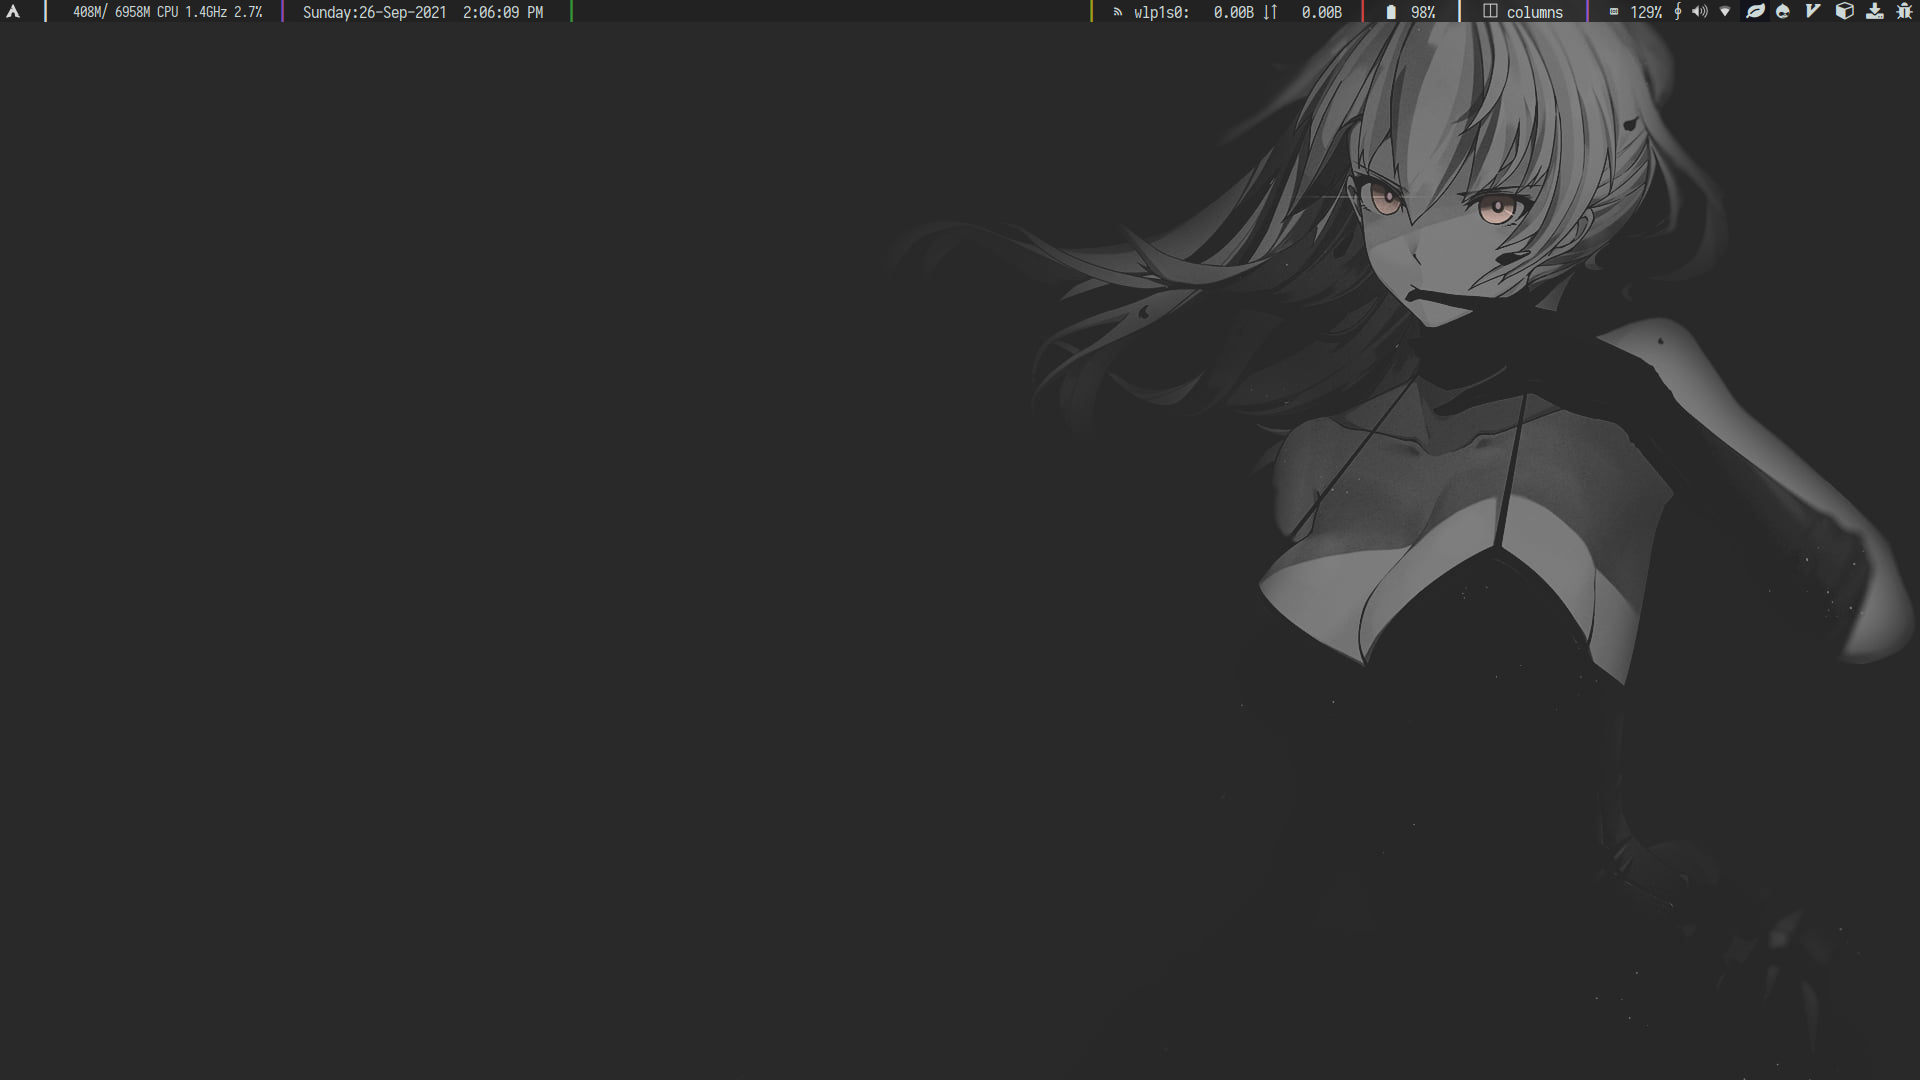
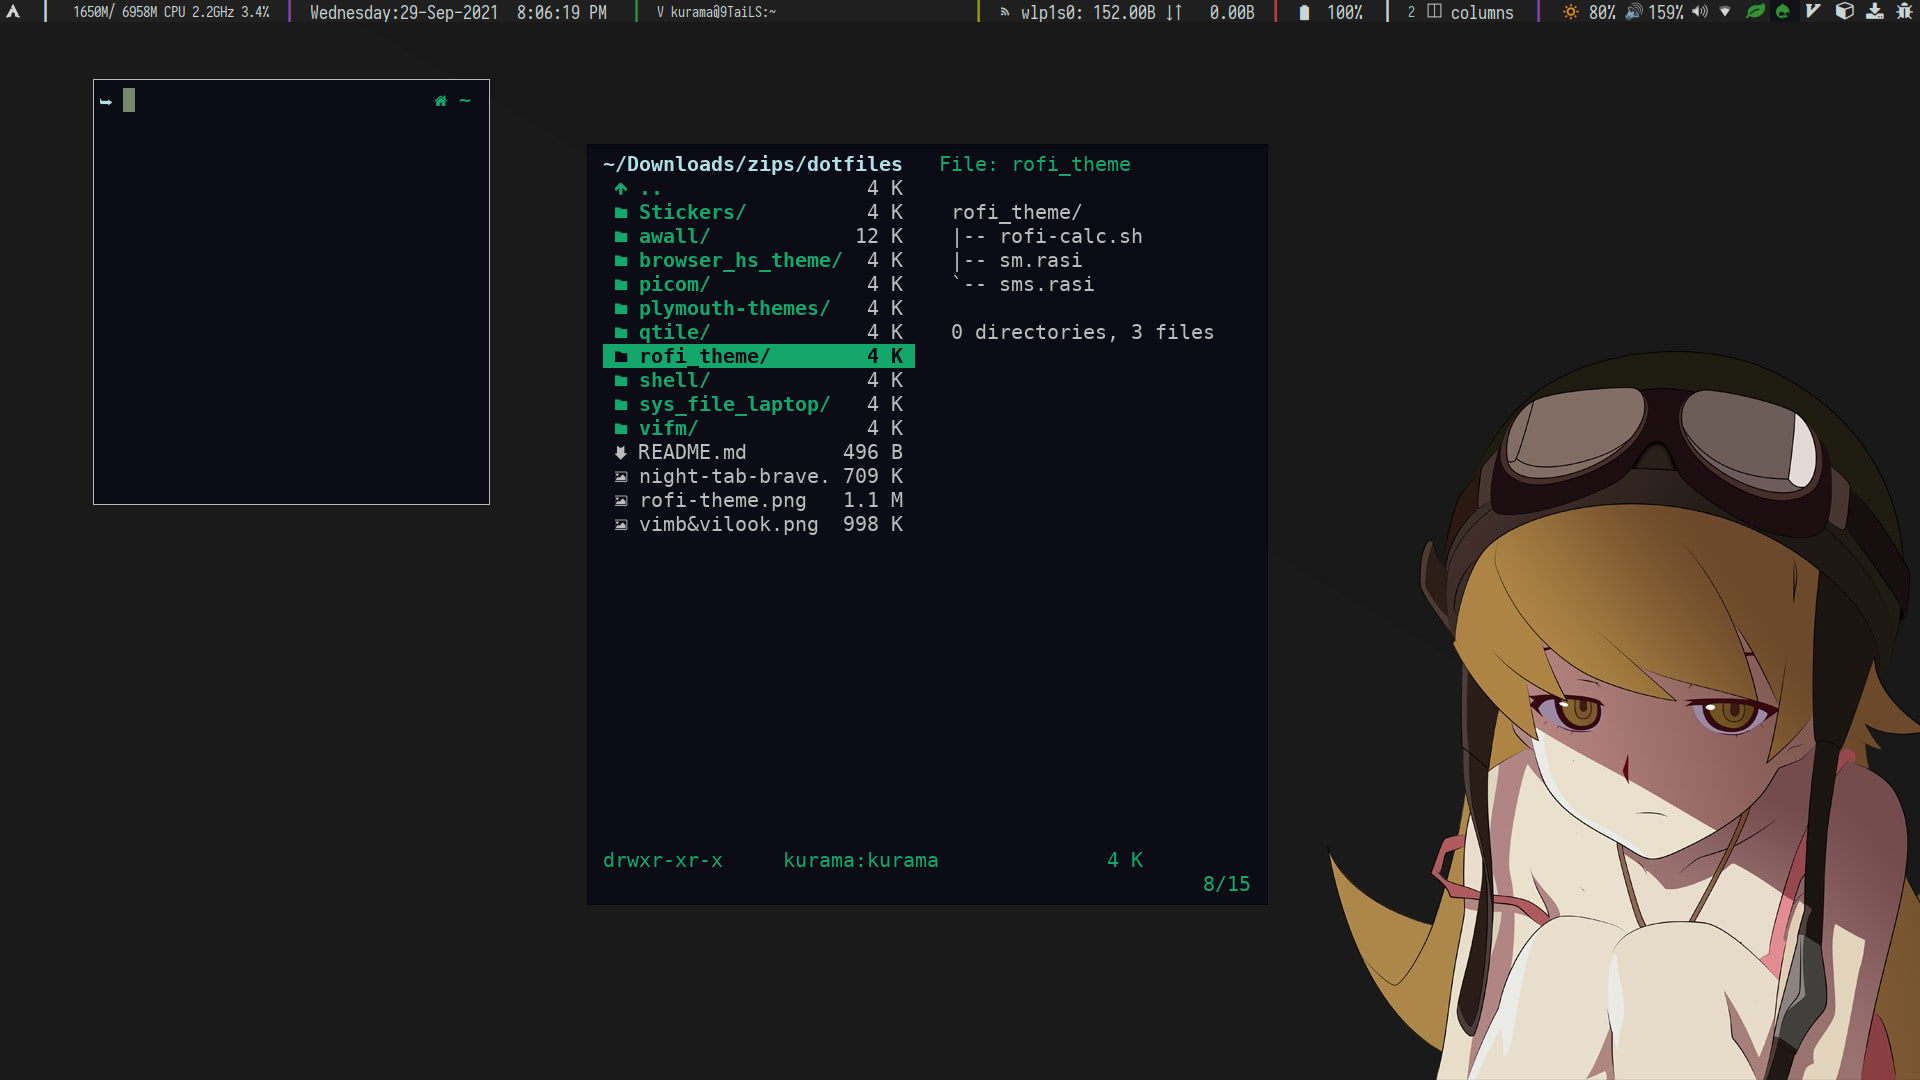
UI

diff --git a/qtile/settings/widgets.py b/qtile/settings/widgets.py
@@ -72,6 +72,8 @@ def workspaces():
 primary_widgets = [
 
  widget.Image(**base(bg='dark') ,filename="~/.config/qtile/icons/menu.png", scale = "True",margin_x=5, margin=3,mouse_callbacks = {"Button1": lambda: os.system("rofi -show drun -show-icons -theme sm")}),
+
+
  powerline1('light','dark'),
    widget.Memory(**base(fg='light',bg='dark'), fontsize=15),
    separator(),
@@ -83,7 +85,9 @@ primary_widgets = [
 
  widget.WindowName(**base(fg='light'), fontsize=14),
 
-    powerline1('color1', 'dark'),
+
+
+ powerline1('color1', 'dark'),
 
    icon(bg="dark", fg="light", text=' '),  # Icon: nf-fa-feed
 
@@ -91,21 +95,25 @@ primary_widgets = [
 
     powerline1('color2','dark'),
 
-    widget.Battery(**base(bg='dark',fg="light"),charge_char='',unknown_char=' ',discharge_char='', format= '{char} {percent:2.0%}', padding=5),
+    widget.Battery(**base(bg='dark',fg="light"),charge_char='',unknown_char=' ',discharge_char='', format= '{char} {percent:2.0%}', update_interval=10 ,padding=5),
 
     powerline1('light','dark'),
 
+     widget.WindowCount(**base(fg='active', bg='dark'), fontsize=14, text_format='{num} ', show_zero=True),
+   
     widget.CurrentLayoutIcon(**base(bg='dark',fg="light"), scale=0.65),
 
     widget.CurrentLayout(**base(bg='dark', fg="light"), padding=5),
 
    powerline1('focus', 'dark'),
 
-    icon(bg='dark',fg="light",text='醙 '),  # Icon: nf-fa-feed
+      icon(bg='dark', fg="light",text='🔅'),  # Icon: nf-fa-feed
+    widget.Backlight(**base(bg='dark', fg="light"), padding=5, brightness_file="/sys/class/backlight/amdgpu_bl0/brightness", max_brightness_file="/sys/class/backlight/amdgpu_bl0/max_brightness"),
+
+   icon(bg='dark',fg="light",text='🔊'),  # Icon: nf-fa-feed
 
     widget.Volume(**base(bg='dark', fg="light")),
 
-    icon(bg='dark', fg="light",text=' ∮'),  # Icon: nf-fa-feed
 
     widget.Notify(**base(bg='dark', fg="light"), padding=5, max_chars=10,default_timeout=3, action=True),
 
@@ -125,6 +133,7 @@ secondary_widgets = [
 
     powerline1('light', 'dark'),
 
+
     widget.CurrentLayoutIcon(**base(bg='dark', fg='light'), scale=1),
 
     widget.CurrentLayout(**base(bg='dark', fg='light'), padding=5),
@@ -137,7 +146,7 @@ secondary_widgets = [
 
 widget_defaults = {
     'font': 'Iosevka',
-    'fontsize': 17,
+    'fontsize': 18,
     'padding': 1,
 }
 extension_defaults = widget_defaults.copy()
